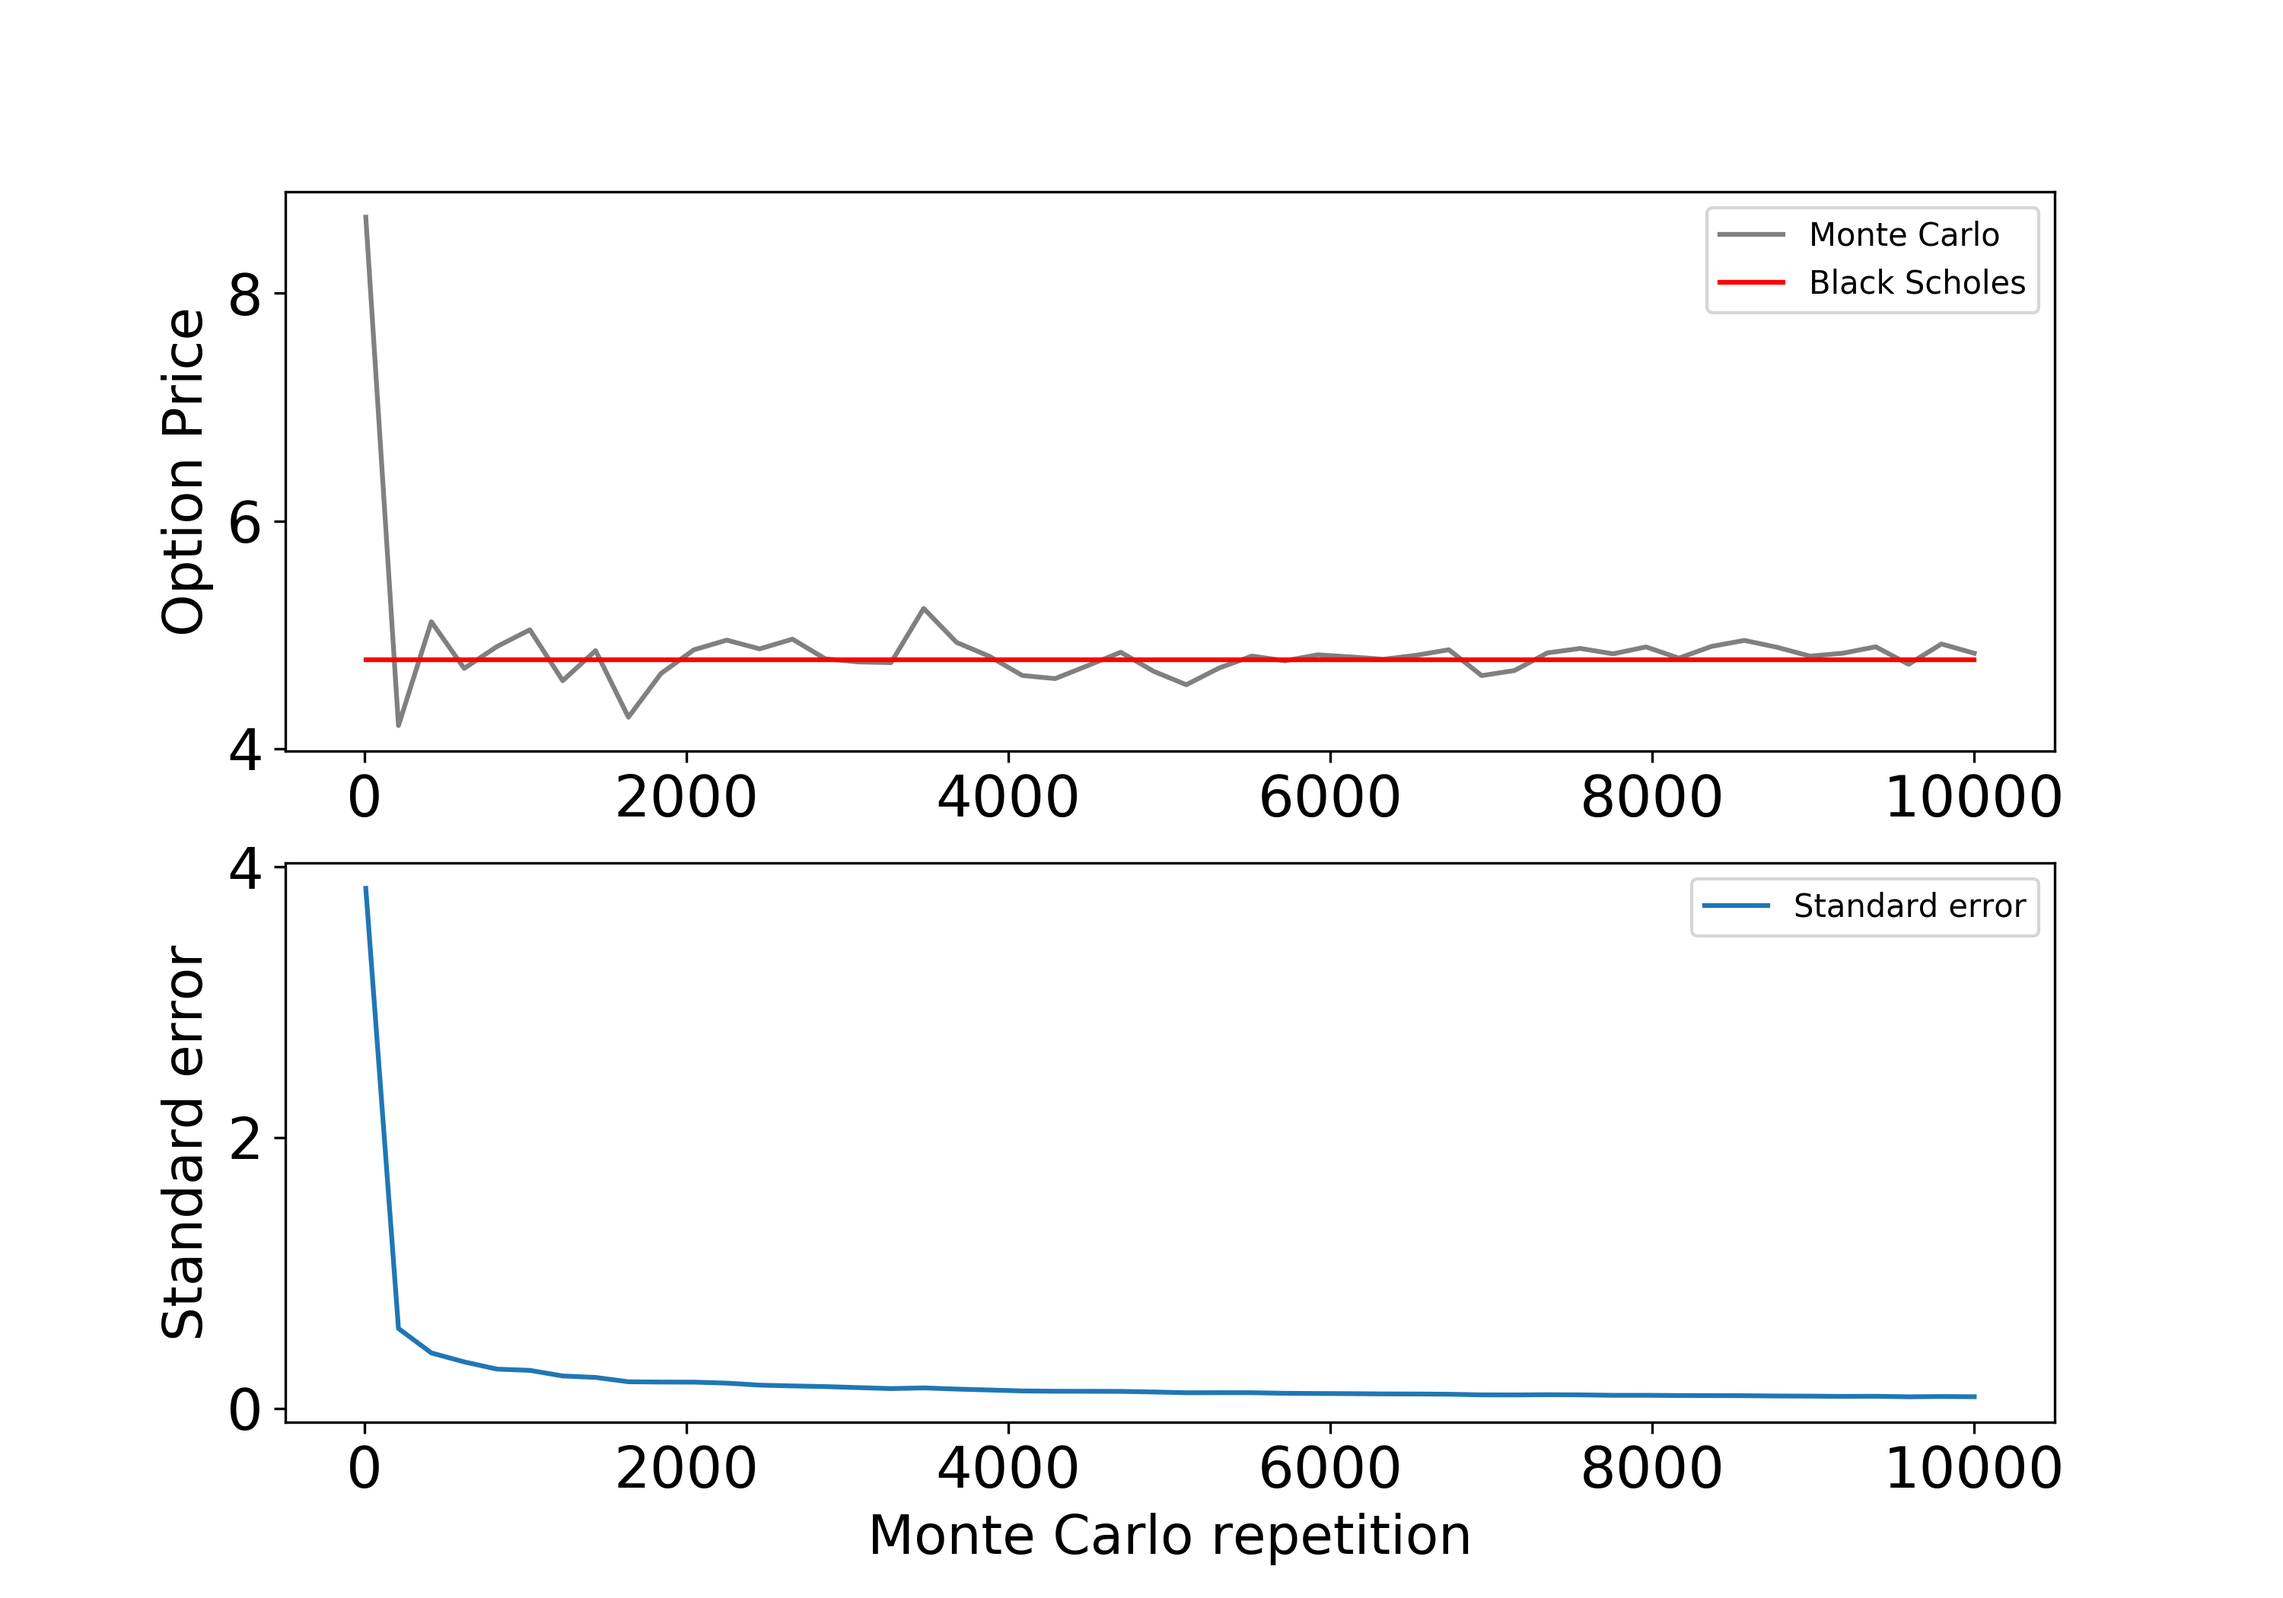
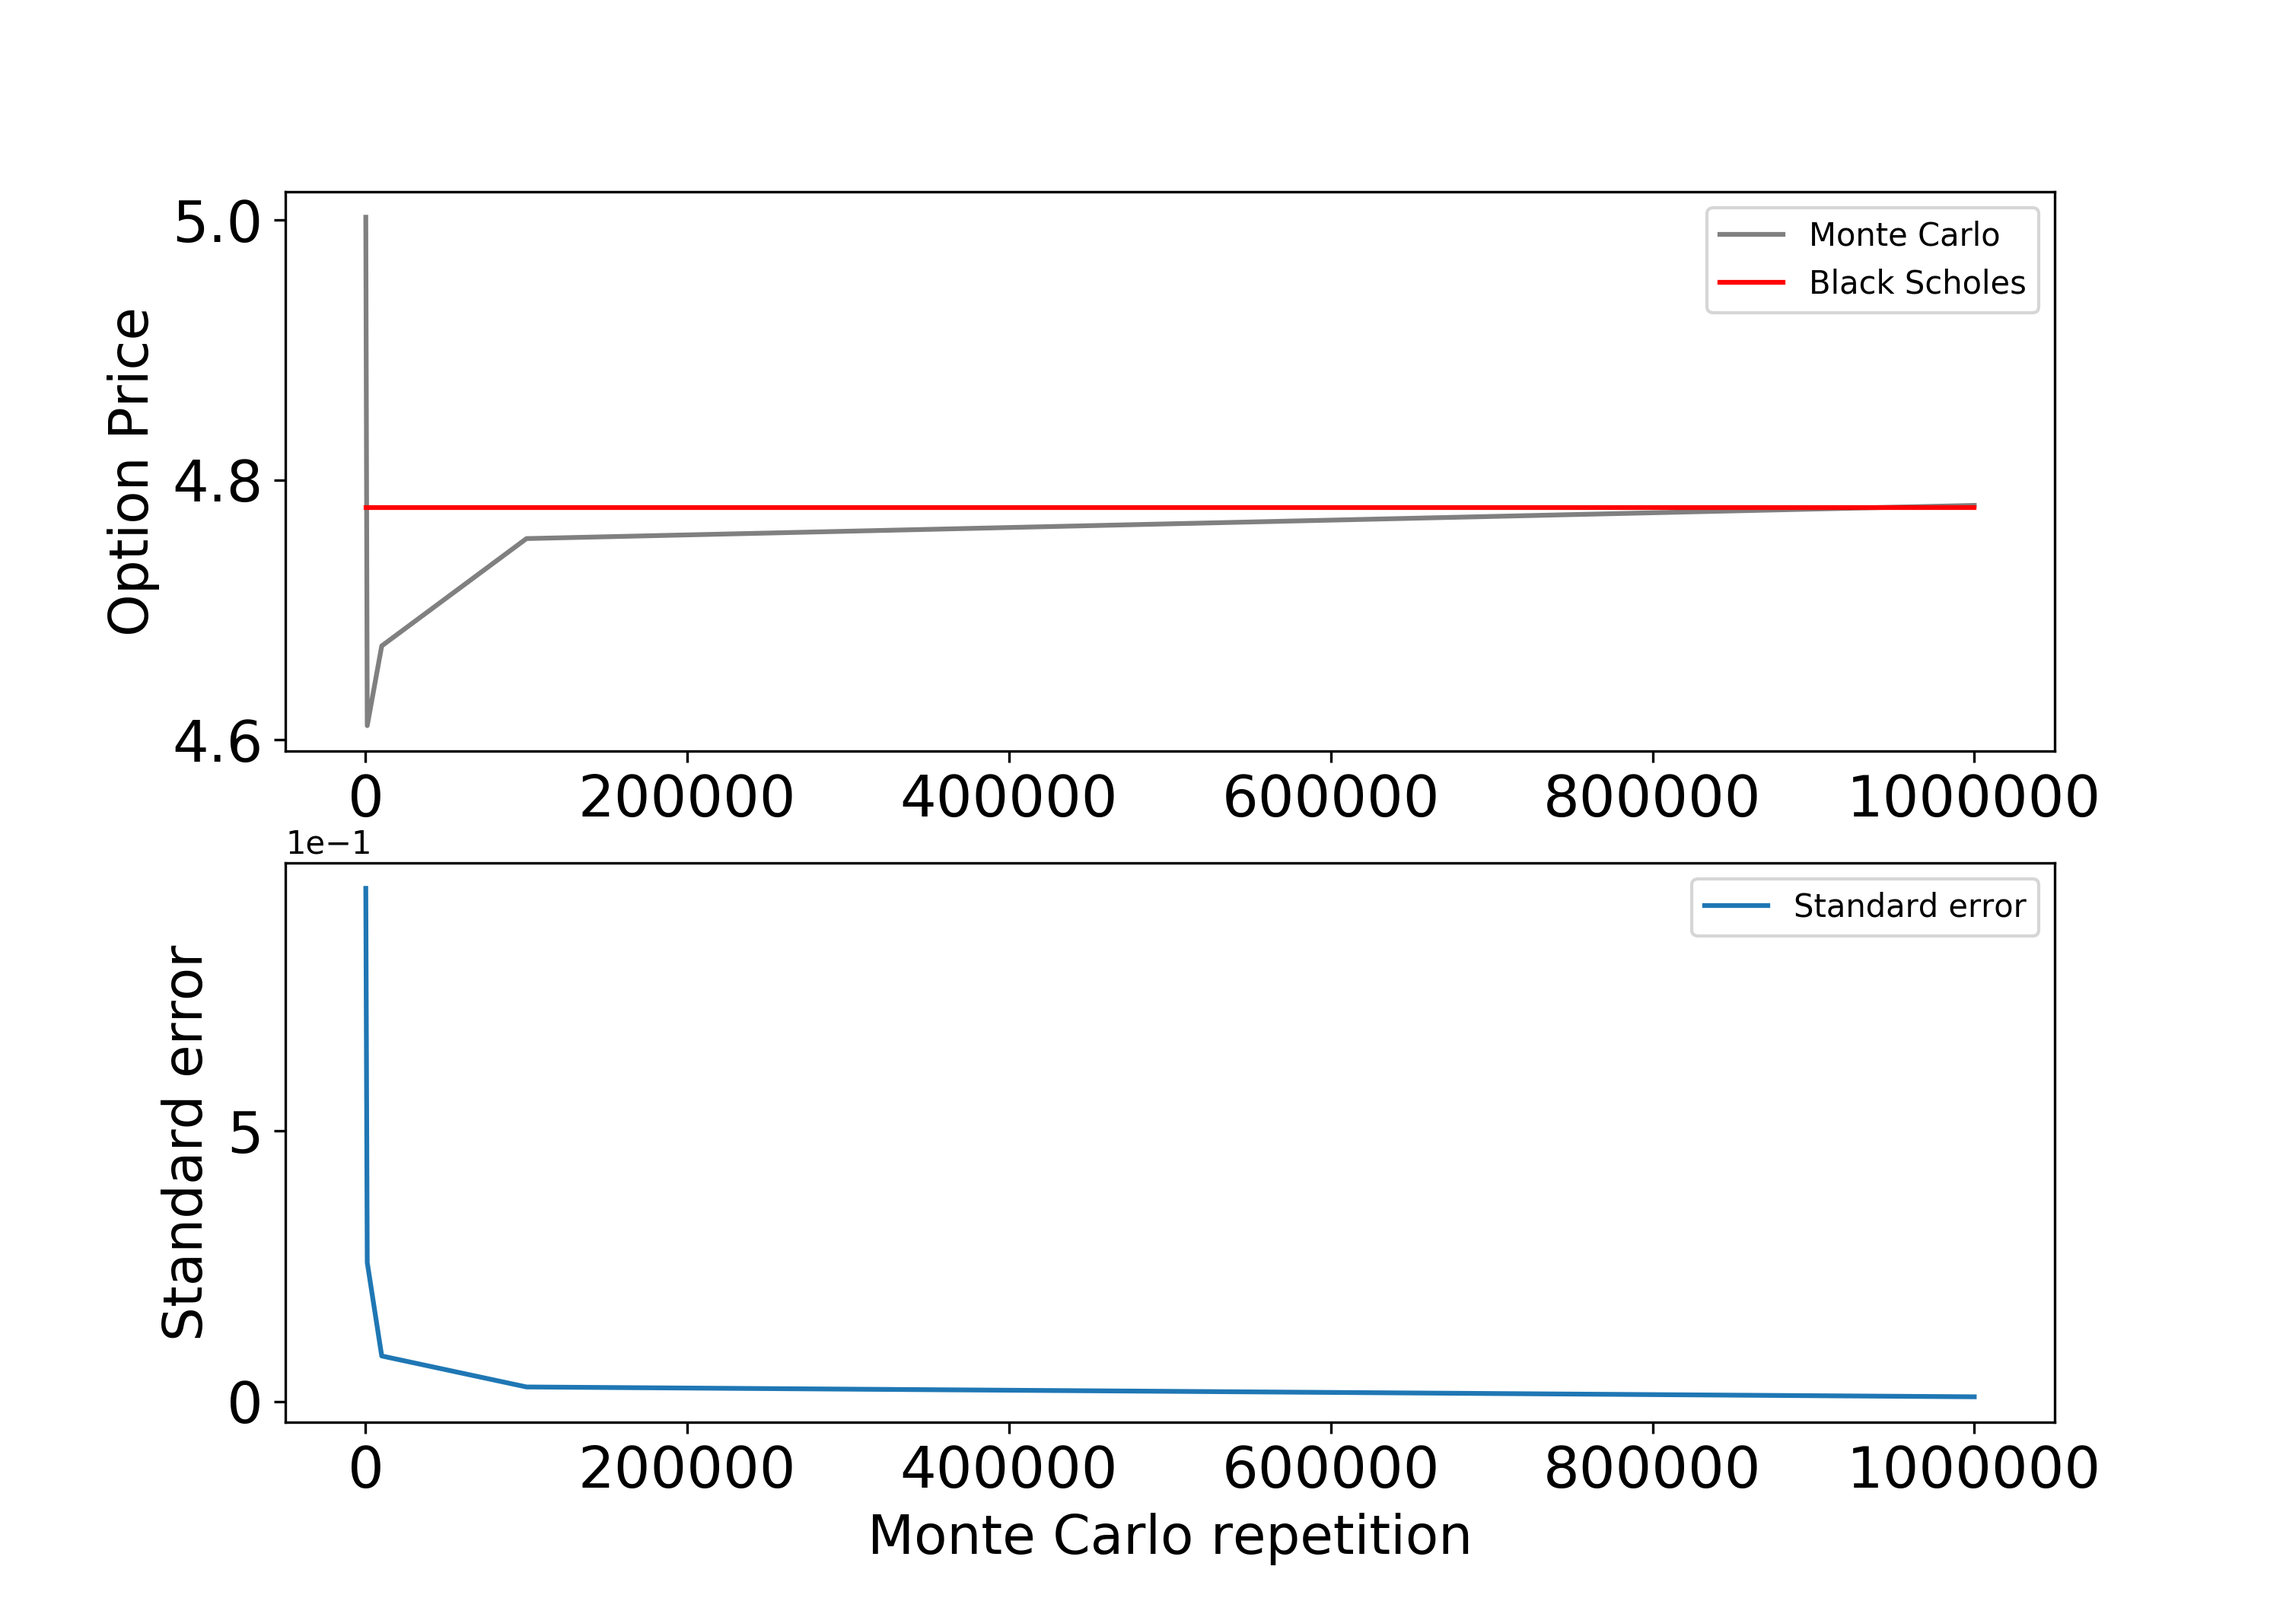
- Quickly cleaned the code

diff --git a/Assignment 2/helper.py b/Assignment 2/helper.py
@@ -20,6 +20,7 @@ import tqdm
 from collections import defaultdict
 import multiprocessing
 from Binomial_tree import BinTreeOption, BlackScholes
+import tqdm
 import pickle
 
 
@@ -67,7 +68,7 @@ def worker_pay_off_euler_sim(object):
 
     return pay_off_array
 
-def diff_monte_carlo_process(T, S0, K, r, sigma, steps,increments,max_repetition,save_plot=False):
+def diff_monte_carlo_process(T, S0, K, r, sigma, steps,samples,save_plot=False):
     """
     :param T:  Period
     :param S0: Stock price at spot time
@@ -79,7 +80,8 @@ def diff_monte_carlo_process(T, S0, K, r, sigma, steps,increments,max_repetition
     :return:  returns a plot of a simulated stock movement
     """
 
-    different_mc_rep = np.linspace(10,max_repetition,increments,dtype=int)
+    different_mc_rep = samples
+    increments = len(samples)
 
     # mc_pricing will be a dict a list containing  tuples of (pricing and standard error)
     mc_pricing = defaultdict(list)
@@ -99,6 +101,12 @@ def diff_monte_carlo_process(T, S0, K, r, sigma, steps,increments,max_repetition
 
     bs = BlackScholes(T, S0, K, r, sigma)
     bs_solution=np.ones(increments)*bs.put_price()
+    print(bs.put_price())
+
+
+    for i in range(len(different_mc_rep)):
+        print("Number of samples: ", different_mc_rep[i]," Mean :", mc_pricing['euler_integration'][i][0], " Variance :", mc_pricing['euler_integration'][i][1])
+
 
     fig, axs = plt.subplots(2,figsize=(10, 7))
     axs[0].plot(different_mc_rep, [i[0] for i in mc_pricing['euler_integration']], color='gray', label='Monte Carlo')
@@ -282,9 +290,9 @@ def antithetic_monte_carlo_process(T, S0, K, r, sigma, steps,save_plot=False):
 
 
 def diff_iter_bump_and_revalue(
-    T, S0, K, r, sigma, steps, 
-    epsilons=[0.5], set_seed="random", seed_nr=10, iterations=[100], 
-    full_output=False, option_type="regular", contract="put", 
+    T, S0, K, r, sigma, steps,
+    epsilons=[0.5], set_seed="random", seed_nr=10, iterations=[100],
+    full_output=False, option_type="regular", contract="put",
     show_plot=False, save_plot=False, save_output=False
     ):
     """
@@ -326,7 +334,7 @@ def diff_iter_bump_and_revalue(
 
     if show_plot or save_plot:
         plot_bump_and_revalue(
-            epsilons, iterations, errors, std_deltas, option_type, 
+            epsilons, iterations, errors, std_deltas, option_type,
             contract, set_seed, show_plot, save_plot
             )
 
@@ -467,14 +475,14 @@ def payoff_and_hedge_options(
     return prices_revalue, prices_bump, bs_deltas
 
 def plot_bump_and_revalue(
-        epsilons, iterations, errors, std_deltas, 
+        epsilons, iterations, errors, std_deltas,
         option_type, contract, set_seed, show_plot=False, save_plot=False
     ):
     """
     """
 
     name_err = os.path.join(
-        "figures", 
+        "figures",
         "errors_{}_{}_bump_and_revalue_{}seed.pdf"
         .format(option_type, contract, set_seed)
         )
@@ -489,17 +497,17 @@ def plot_bump_and_revalue(
     fig = plt.figure()
     for i, iteration in enumerate(iterations):
         plt.plot(
-            epsilons, errors[i, :], color=colors[i], 
+            epsilons, errors[i, :], color=colors[i],
             linestyle=linestyles[i], label="N = {:.1e}".format(Decimal(str(iteration)))
             )
 
     plt.xlabel("Epsilons")
     plt.ylabel("Relative error")
     plt.yscale("log")
-    plt.title("Relative error delta bump-and-revalue method \n" + 
+    plt.title("Relative error delta bump-and-revalue method \n" +
             "({} seed, {} {})".format(set_seed, option_type, contract))
     plt.legend()
-    
+
     if show_plot:
         plt.show()
 
@@ -511,14 +519,14 @@ def plot_bump_and_revalue(
     fig = plt.figure()
     for i, iteration in enumerate(iterations):
         plt.plot(
-            epsilons, std_deltas[i, :], color=colors[i], 
+            epsilons, std_deltas[i, :], color=colors[i],
             linestyle=linestyles[i], label="N = {:.1e}".format(Decimal(str(iteration)))
             )
 
     plt.xlabel("Epsilons")
     plt.ylabel("Standard deviation")
     plt.yscale("log")
-    plt.title("Standard deviation delta with bump-and-revalue method\n" + 
+    plt.title("Standard deviation delta with bump-and-revalue method\n" +
             "({} seed, {} {})".format(set_seed, option_type, contract))
     plt.legend()
 
@@ -577,7 +585,7 @@ def LR_method(T, S0, K, r, sigma, steps, set_seed="random", seed_nr=10, reps=[10
 
     if show_plot or save_plot:
         plot_LR(
-            reps, errors, std_deltas, option_type, contract, 
+            reps, errors, std_deltas, option_type, contract,
             set_seed, show_plot, save_plot
             )
 
@@ -594,7 +602,7 @@ def plot_LR(iterations, errors, std_deltas, option_type, contract, set_seed, sho
     """
     """
     name =  os.path.join(
-        "figures", 
+        "figures",
         "results_{}_{}_LR_{}seed.pdf".format(option_type, contract, set_seed)
         )
 
@@ -666,7 +674,7 @@ def get_N_linestyles(N=5):
         linestyles.remove(style)
     styles = len(linestyles)
     return [linestyles[style % styles] for style in range(N)]
-    
+
 
 def monte_carlo_asian(T, S0, K, r, sigma, steps, period=False, reps=100):
     '''

diff --git a/Assignment 2/main.py b/Assignment 2/main.py
@@ -19,8 +19,8 @@ Basic Option Valuation :
 - estimate the Standard error and accuracy
 '''
 
-# helper.plot_wiener_process(1, 100, 99, 0.06, 0.2, steps=365,save_plot=True)
-'''
+helper.plot_wiener_process(1, 100, 99, 0.06, 0.2, steps=365,save_plot=True)
+
 helper.diff_monte_carlo_process(
     T=1,
     S0=100,
@@ -28,8 +28,7 @@ helper.diff_monte_carlo_process(
     r=0.06,
     sigma=0.2,
     steps=365,
-    increments=50,
-    max_repetition=10000,
+    samples=[100,1000,10000,100000,1000000],
     save_plot=True)
 
 
@@ -54,12 +53,6 @@ helper.diff_sigma_monte_carlo_process(
     steps=365,
     repetition=10000,
     save_plot=True)
-
-'''
-#helper.milstein_process(1, 100, 99, 0.06, 0.2, steps=365,save_plot=False)
-
-#helper.antithetic_monte_carlo_process(1, 100, 99, 0.06, 0.2, steps=365,save_plot=False)
-
 '''
 Estimation of Sensitivities in MC:
 -Compute bump-and-reveal mehtod
@@ -93,28 +86,28 @@ print("Relative Errors:")
 print(errors.round(3))
 print("=================================================")
 
-epsilons = [0.01, 0.02, 0.5]
-set_seed = []
+#epsilons = [0.01, 0.02, 0.5]
+#set_seed = []
 
-# epsilons = [0.01 * (x + 1) for x in range(5)]
-# set_seed = [10] * len(epsilons)
+epsilons = [0.01 * (x + 1) for x in range(5)]
+set_seed = [10] * len(epsilons)
 
 
-# results = helper.diff_iter_bump_and_revalue(
-#     T=1,
-#     S0=100,
-#     K=99,
-#     r=0.06,
-#     sigma=0.2,
-#     steps=365,
-#     epsilons=epsilons,
-#     set_seed=set_seed,
-#     iterations=[10000, 100000, 1000000, 10000000],
-#     full_output=False,
-#     option_type="regular",
-#     contract="put",
-#     save_output=False
-# )
+results = helper.diff_iter_bump_and_revalue(
+     T=1,
+     S0=100,
+     K=99,
+     r=0.06,
+     sigma=0.2,
+     steps=365,
+     epsilons=epsilons,
+     set_seed=set_seed,
+     iterations=[10000, 100000, 1000000, 10000000],
+     full_output=False,
+     option_type="regular",
+     contract="put",
+     save_output=False
+)
 
 results = helper.diff_iter_bump_and_revalue(
     T=1,

diff --git a/Assignment 1/main.py b/Assignment 1/main.py
@@ -31,7 +31,7 @@ parser.add_argument('-K', type=int,default=99, help='Strike price at the moment 
 parser.add_argument('-steps', type=int,default=365, help='Number of updates of the stock market over the year')
 parser.add_argument('-r', type=float,default=0.06, help='interest rate r (default : 0.06)')
 parser.add_argument('-s', type=float, default=0.2, help='volatility s (default : 0.2)')
-parser.add_argument('-option_type', type=str,default='call', help='option type EU or USA(default : EU)')
+parser.add_argument('-option_type', type=str,default='call', help='option type call or put (default : call)')
 parser.add_argument('-market', type=str,default='EU', help='option type EU or USA(default : EU)')
 parser.add_argument('-save_plot',default=False, help='return the plots (default : False)')
 parser.add_argument('-run_time',default=False, help='return the plots (default : False)')

diff --git a/Assignment 2/monte_carlo.py b/Assignment 2/monte_carlo.py
@@ -11,6 +11,8 @@ Louis Weyland, Floris Fok and Julien Fer
 import numpy as np
 import math
 
+
+
 class monte_carlo:
     def __init__(self, steps, T, S0, sigma, r, K, market="EU", option_type="call"):
         self.steps = steps
